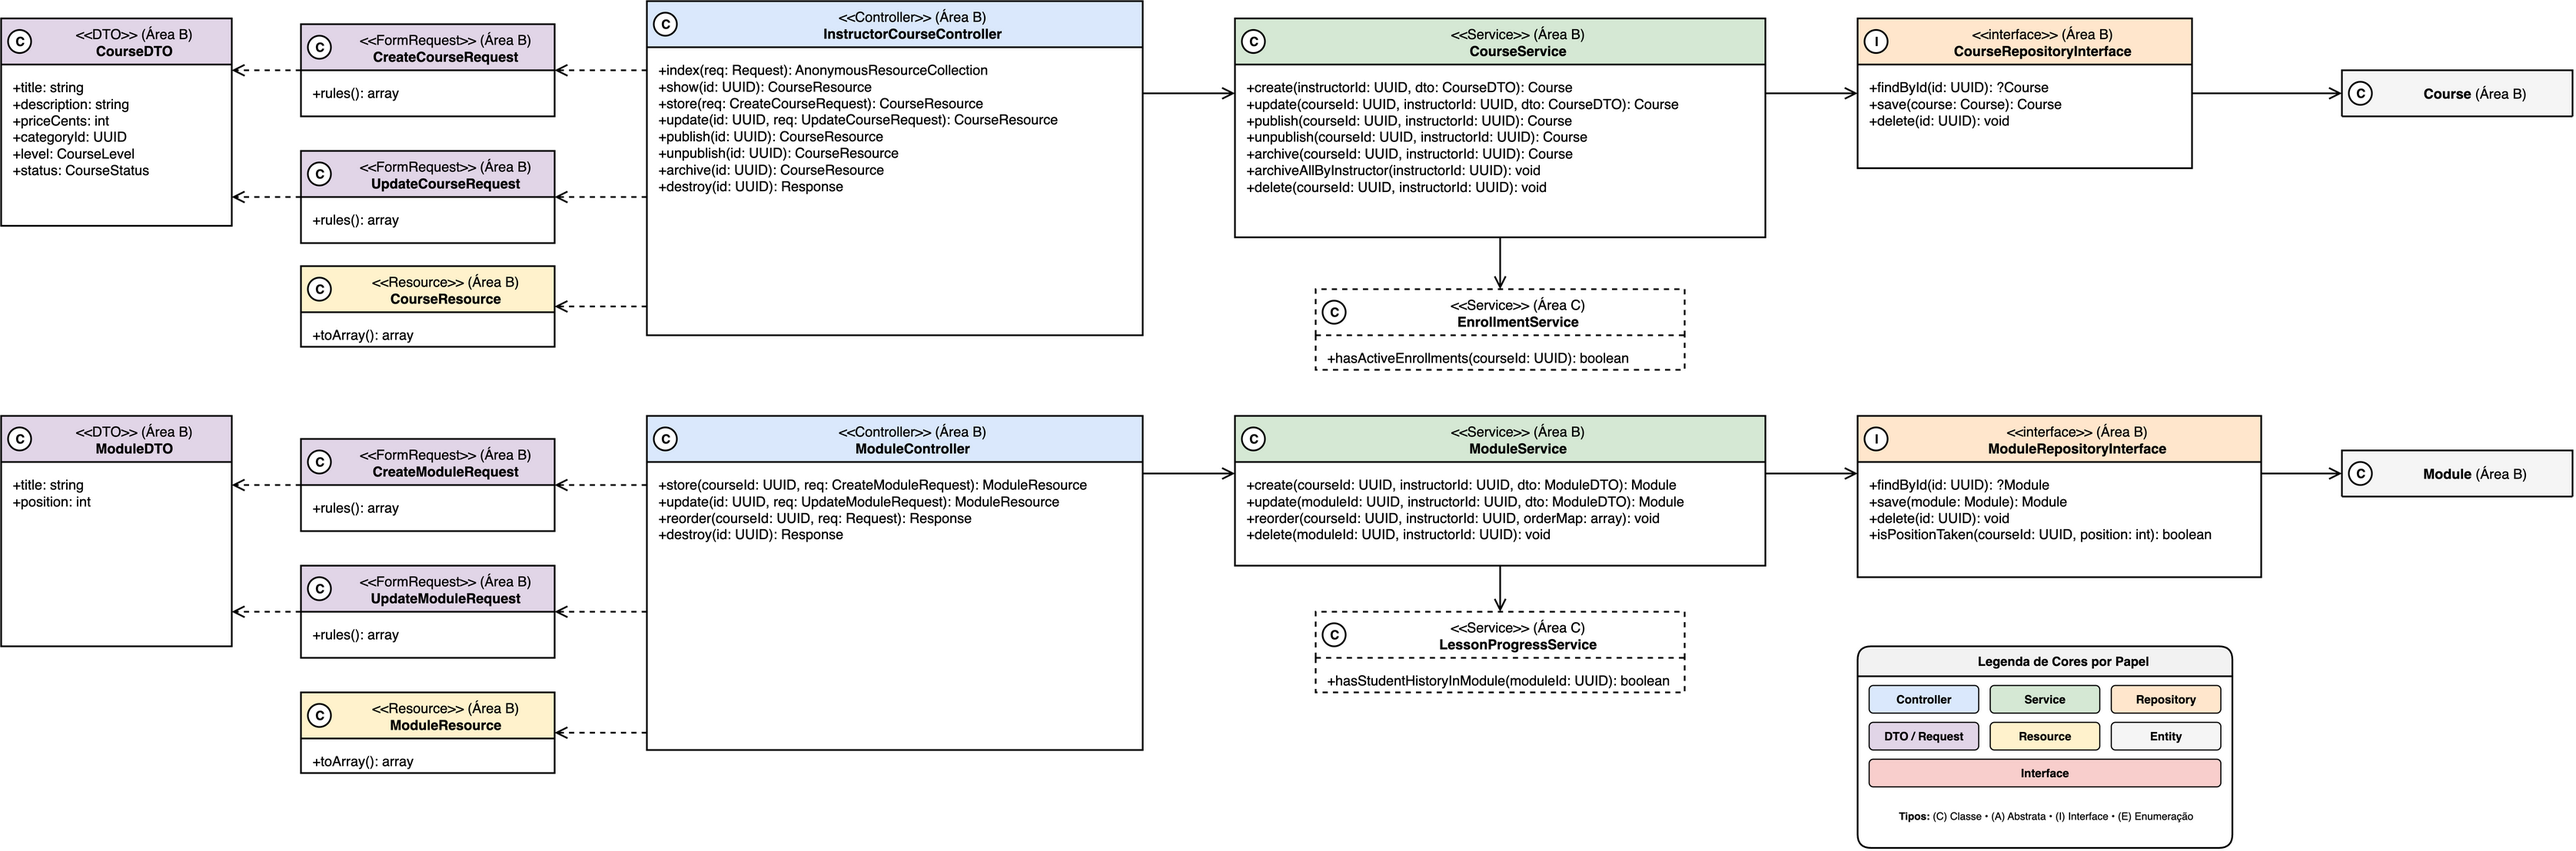
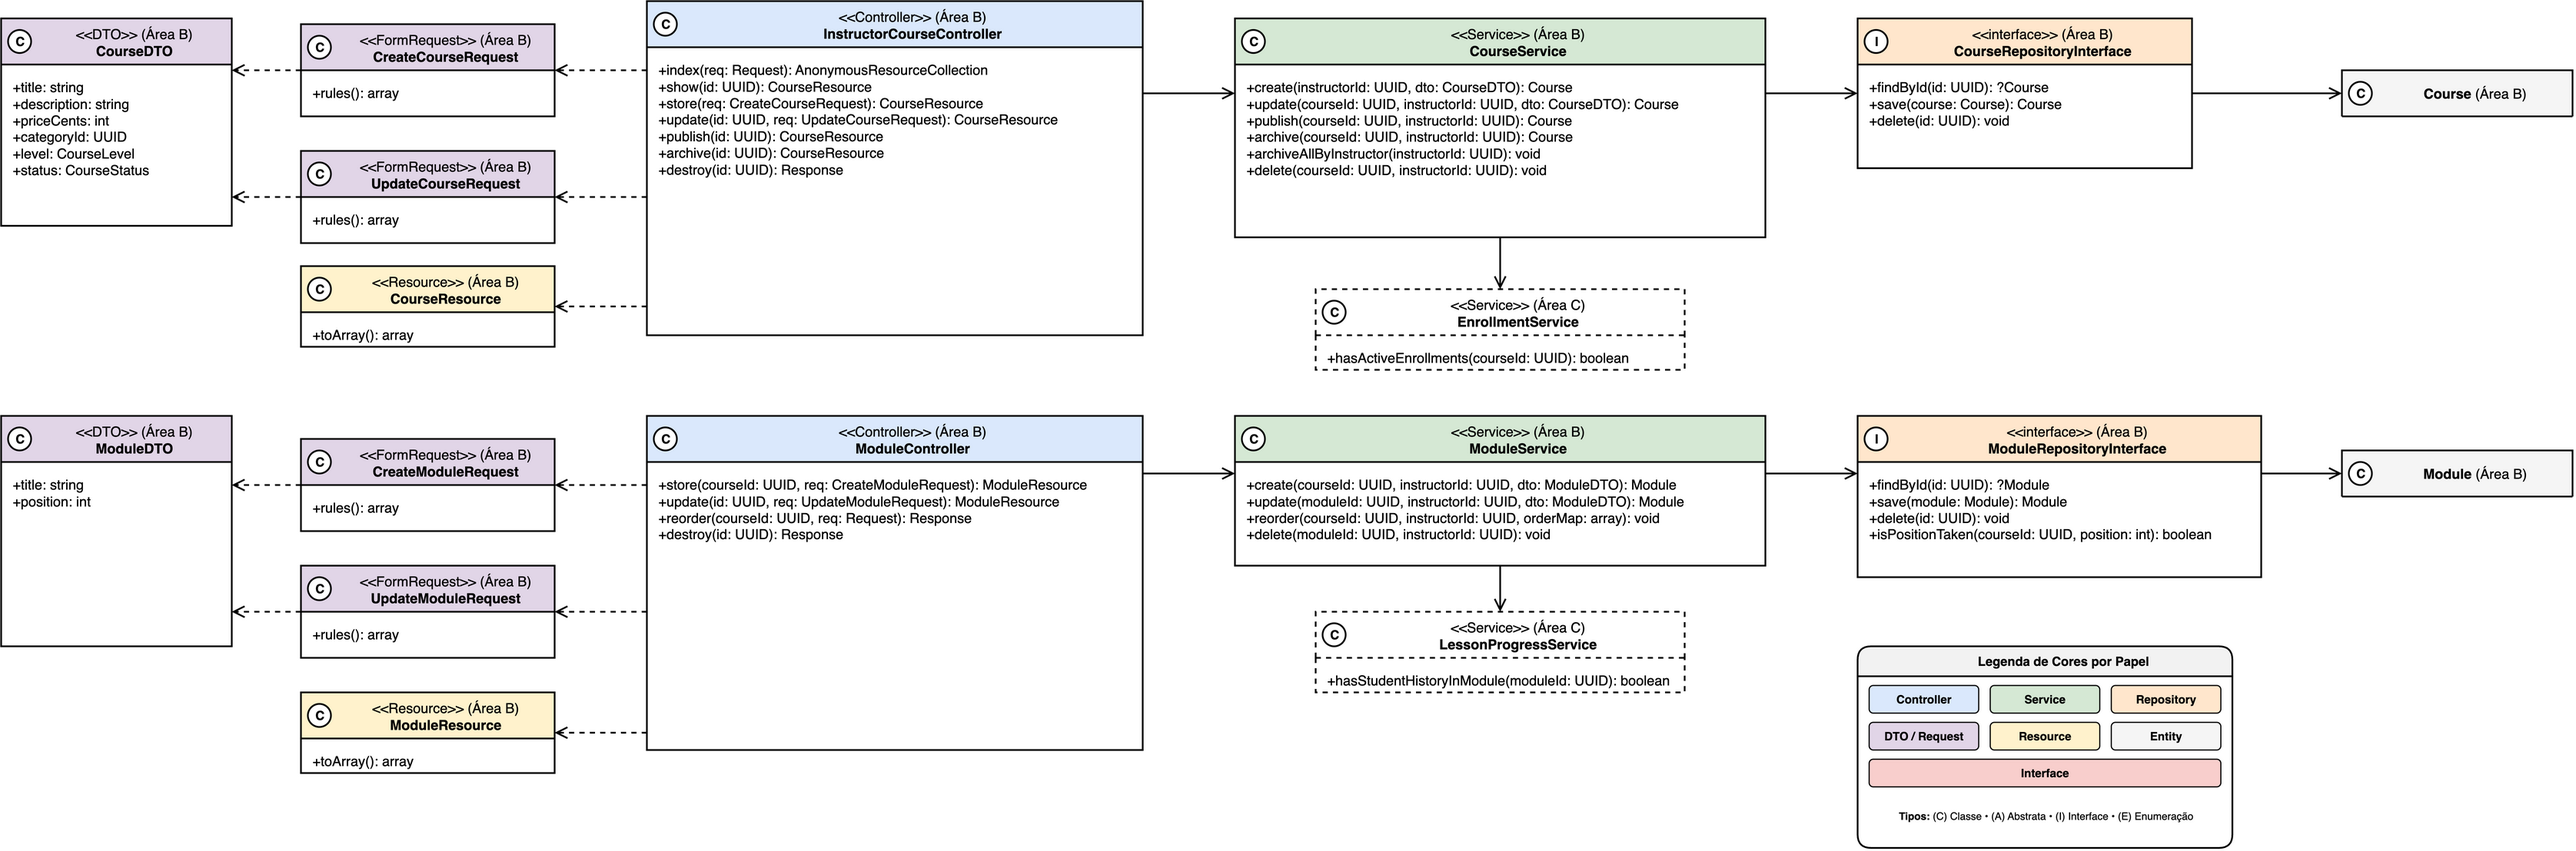
docs(spec): remove return to draft when enrolled and replace unpublish with archive
Forbid returning published courses with active enrollments to draft in the data model and test cases, replace Course.unpublish() with Course.archive() in the domain model, and remove unpublish() from the implementation controller and service.

Changed region(s): [[0.4966, 0.1534, 0.6207, 0.2455], [0.2483, 0.1534, 0.3414, 0.2455]]

diff --git a/especificacao/12-modelo-de-dados/area-b.md b/especificacao/12-modelo-de-dados/area-b.md
@@ -13,7 +13,7 @@ Decisões do modelo:
 - **Relação Módulo–Quiz resolvida (TDD seção 2):** cada linha de `quizzes` pertence a exatamente um registro de `modules` (`quizzes.module_id` obrigatório), e cada módulo pode conter zero ou mais quizzes (`0..n`). Isso resolve a hierarquia pedagógica do curso, permitindo avaliações modulares pontuais ou finais de módulo.
 - **Normalização até a 3ª Forma Normal (3FN):** todas as tabelas da Área B encontram-se rigorosamente na 3FN. As chaves primárias são UUIDs únicos, todos os atributos não-chave dependem exclusivamente da chave primária inteira (sem dependências parciais) e não há dependências transitivas entre atributos não-chave.
 - **Bloqueio de exclusão e integridade com a Área C:**
-  - A exclusão de um curso (`courses`) é bloqueada se houver alunos com matrículas ativas em `enrollments` (UC006 R-2 e E2, retornando HTTP `409 Conflict`), permitindo apenas a alteração de status para despublicado / rascunho (`draft`) ou arquivado (`archived`).
+  - A exclusão de um curso (`courses`) é bloqueada se houver alunos com matrículas ativas em `enrollments` (UC006 R-2 e E2, retornando HTTP `409 Conflict`), sendo proibido o retorno para rascunho (`draft`) e permitindo exclusivamente o arquivamento (`archived`) para não interromper o acesso dos alunos matriculados.
   - A exclusão de um módulo (`modules`) é bloqueada se houver histórico de alunos registrado em `lesson_progress` (para qualquer aula do módulo) ou em `quiz_attempts` (para qualquer quiz do módulo) (UC014 R-4 e E4, retornando HTTP `409 Conflict`). Caso não haja histórico, a exclusão lógica em cascata marca `deleted_at` no módulo, em suas aulas e nos seus quizzes.
   - A exclusão de uma aula (`lessons`) é bloqueada se houver qualquer registro em `lesson_progress` (UC015 R-5 e E4, retornando HTTP `409 Conflict`). Caso contrário, a exclusão lógica preenche `deleted_at` na aula e em seus materiais complementares; os arquivos de vídeo e de materiais permanecem no Cloudflare R2, sem remoção física, preservados para o histórico.
 - **Upload via API e gestão de vídeo (UC015, RNF004, RNF018):** o arquivo de vídeo é enviado diretamente à API em requisição `multipart/form-data`. O backend repassa o binário ao serviço de mídia (`media-service`), que grava o objeto no Cloudflare R2 e retorna a chave persistida (`video_key: varchar(255)`), a duração em segundos (`duration_seconds: integer`), o tipo MIME (`video_mime_type: varchar(100)`) e o tamanho em bytes (`video_size_bytes: bigint`). A aula só é salva após a confirmação do upload, tornando `video_key` estritamente obrigatório. O envio de novo vídeo dispara o job assíncrono de transcrição e indexação vetorial no `ai-service` via fila RabbitMQ (RNF004), com o estado acompanhado pelo campo `index_status: text CHECK (pending, indexed, failed)`.

diff --git a/especificacao/15-casos-de-teste/area-b.md b/especificacao/15-casos-de-teste/area-b.md
@@ -13,7 +13,7 @@
 | TC092 | 4 – A3 Cancelar cadastro de curso | CT1 Cancelamento de novo curso | Formulário de criação de curso com dados preenchidos; clique em «Cancelar» | Operação cancelada, alterações descartadas e retorno à listagem «Meus cursos» sem persistir nenhum registro. |
 | TC123 | 5 – A4 Arquivar curso | CT1 Arquivamento de curso | Curso publicado (`status: published`); acionamento de arquivamento pelo instrutor proprietário | Status alterado para `archived` (ADR-0014), curso removido das listagens do catálogo público, mantendo acesso apenas aos alunos já matriculados (200 OK). |
 | TC093 | 6 – E1 Campos obrigatórios ausentes | CT1 Título e preço em branco | Título vazio, descrição `Introdução`, preço em branco | Resposta 422 `VALIDATION_FAILED` com `fields.title` e `fields.priceCents` indicando obrigatoriedade; nenhum registro é criado. |
-| TC012 | 7 – E2 Excluir curso com matrículas | CT1 Exclusão bloqueada com alunos | Curso com 5 alunos matriculados em `Enrollment`; acionamento de «Excluir curso» | Resposta 409 `CONFLICT` com mensagem de bloqueio (R-2), impedindo a exclusão e sugerindo despublicar ou arquivar o curso; dados mantidos intactos. |
+| TC012 | 7 – E2 Excluir curso com matrículas | CT1 Exclusão bloqueada com alunos | Curso com 5 alunos matriculados em `Enrollment`; acionamento de «Excluir curso» | Resposta 409 `CONFLICT` com mensagem de bloqueio (R-2), impedindo a exclusão e permitindo apenas o arquivamento do curso; dados mantidos intactos. |
 | TC094 | 8 – E3 Não proprietário do curso | CT1 Instrutor edita curso de terceiro | Instrutor logado envia `PUT /api/v1/instructor/courses/{id}` para curso de outro instrutor | Resposta 403 `FORBIDDEN` (E3); nenhuma alteração é persistida. |
 | TC095 | 9 – E4 Publicar curso sem conteúdo | CT1 Publicar curso vazio | Curso recém-criado em rascunho sem nenhum módulo ou aula cadastrado; clique em «Publicar» | Resposta 422 `VALIDATION_FAILED` informando necessidade de ao menos um módulo e uma aula para publicação; curso permanece com status `draft`. |
 
